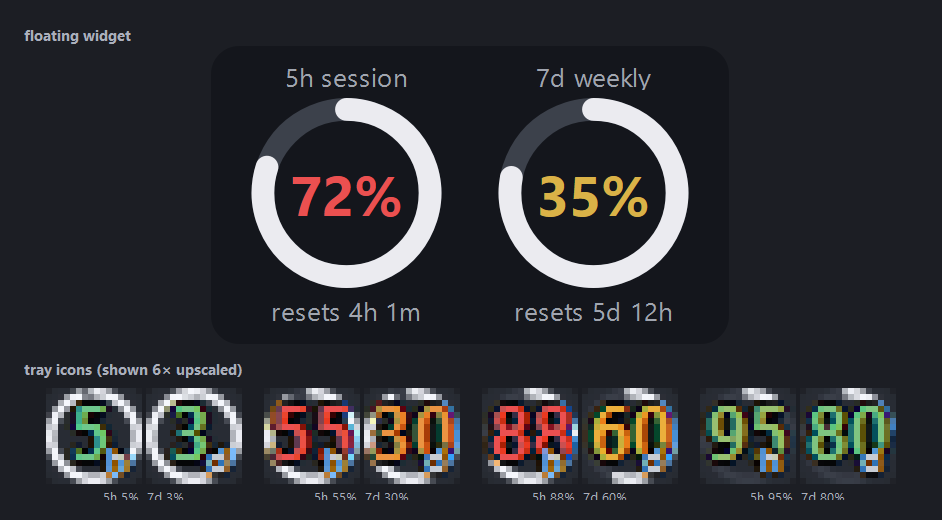
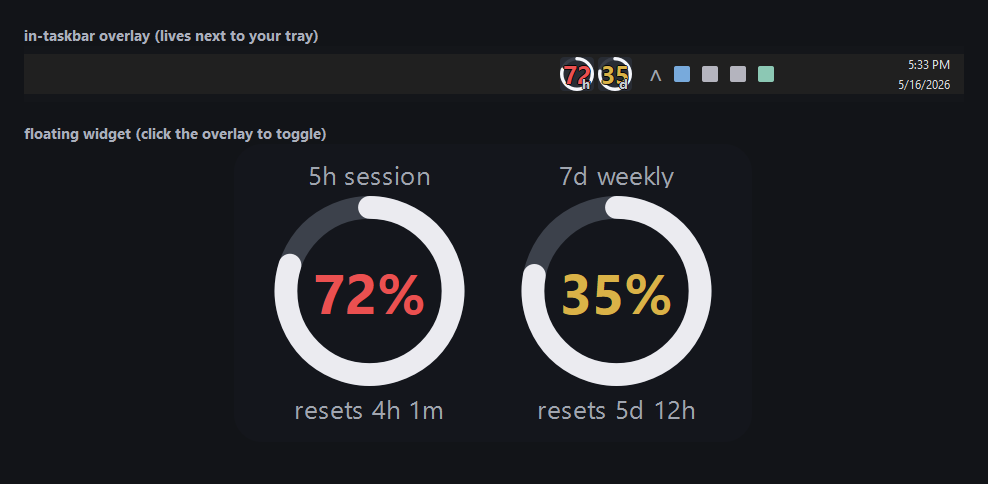
Refresh README + visuals for taskbar overlay design
- New hero: mock Windows taskbar with our overlay icons in context
  (next to chevron + fake tray + clock) above the floating widget.
  Conveys both surfaces at a glance instead of the old 'two separate
  screenshots' layout.
- New taskbar-low/mid/high.png: the in-context view at three urgency
  states (chill / burning / at-the-limit). Replaces the old
  'widget-low/mid/high' as the primary 'what you'll see' image.
- 'How it works' rewritten to describe the actual mechanism
  (SetParent + WS_CHILD into Shell_TrayWnd) instead of the older
  'always-on-top floating window' explanation that didn't actually
  work in practice. Includes a short 'why prior approaches failed'
  note for anyone trying to copy the technique.
- Controls table refers to 'Taskbar overlay' instead of 'Tray icon'.
- Widget right-click menu now lists 'Hide widget' (added earlier as
  an escape hatch).

Changed region(s): [[0.0308, 0.124, 0.9544, 0.9607], [0.0, 0.062, 0.3386, 0.093], [0.8928, 0.124, 0.9851, 0.186]]

diff --git a/docs/render.py b/docs/render.py
@@ -140,46 +140,105 @@ def render_tray_strip(pairs: list[tuple[float, float, float, float]],
 
 
 # ---------------------------------------------------------------------------
-# Compose the hero image (widget + tray strip stacked)
+# Mock Windows taskbar — shows the overlay icons in their actual context
+# ---------------------------------------------------------------------------
+
+TASKBAR_BG = QColor(32, 32, 32)
+TASKBAR_TEXT = QColor(220, 220, 225)
+TASKBAR_DIM = QColor(160, 165, 175)
+
+
+def render_taskbar_mockup(pct5: float, tr5: float,
+                          pct7: float, tr7: float,
+                          width: int = 880, height: int = 56) -> QPixmap:
+    """A representative slice of the Windows taskbar with our overlay icons
+    embedded on the left, then fake chevron, fake tray icons, and clock.
+    Icons are drawn at actual taskbar height for visual fidelity."""
+    pix = QPixmap(width, height)
+    pix.fill(QColor(20, 22, 26))
+    p = QPainter(pix)
+    p.setRenderHint(QPainter.Antialiasing, True)
+    p.setRenderHint(QPainter.TextAntialiasing, True)
+    # Taskbar strip across the full width
+    bar_y = 8
+    bar_h = height - 16
+    p.setPen(Qt.NoPen)
+    p.setBrush(TASKBAR_BG)
+    p.drawRect(0, bar_y, width, bar_h)
+
+    icon = bar_h - 6
+    gap = 4
+    # Our overlay icons — positioned just left of where the "tray" starts
+    tray_x = width - 320
+    overlay_w = icon * 2 + gap
+    overlay_x = tray_x - overlay_w - 12
+    overlay_y = bar_y + 3
+    i5 = make_tray_pixmap(pct5, tr5, icon, marker="h")
+    i7 = make_tray_pixmap(pct7, tr7, icon, marker="d")
+    p.drawPixmap(overlay_x, overlay_y, i5)
+    p.drawPixmap(overlay_x + icon + gap, overlay_y, i7)
+
+    # Fake chevron
+    p.setFont(QFont("Segoe UI", int(icon * 0.5)))
+    p.setPen(TASKBAR_DIM)
+    p.drawText(QRectF(tray_x, bar_y, 24, bar_h), Qt.AlignCenter, "˄")
+
+    # Fake tray icons (just simple shapes so the layout reads)
+    tx = tray_x + 30
+    for col in [QColor(120, 170, 220), QColor(180, 180, 190),
+                QColor(180, 180, 190), QColor(140, 200, 180)]:
+        p.setBrush(col); p.setPen(Qt.NoPen)
+        p.drawRoundedRect(tx, bar_y + bar_h / 2 - 8, 16, 16, 2, 2)
+        tx += 28
+
+    # Fake clock
+    p.setFont(QFont("Segoe UI", 9))
+    p.setPen(TASKBAR_TEXT)
+    p.drawText(QRectF(width - 110, bar_y, 96, bar_h / 2),
+               Qt.AlignVCenter | Qt.AlignRight, "5:33 PM")
+    p.drawText(QRectF(width - 110, bar_y + bar_h / 2, 96, bar_h / 2),
+               Qt.AlignVCenter | Qt.AlignRight, "5/16/2026")
+    p.end()
+    return pix
+
+
+# ---------------------------------------------------------------------------
+# Compose the hero image: taskbar mockup on top + floating widget below
 # ---------------------------------------------------------------------------
 
 def render_hero() -> QPixmap:
-    # 72% used with 80% of window still left → urgency 52 → amber
+    # Two paired scenarios so the hero conveys both surfaces at once
+    taskbar = render_taskbar_mockup(72.0, 80.0, 35.0, 78.0,
+                                    width=940, height=56)
     widget = render_widget(72.0, 35.0, tr5=80, tr7=78,
                            reset5="4h 1m", reset7="5d 12h", scale=2)
-    tray = render_tray_strip(
-        [(5.0,  95.0, 3.0,  98.0),
-         (55.0, 90.0, 30.0, 92.0),
-         (88.0, 65.0, 60.0, 55.0),
-         (95.0, 10.0, 80.0, 22.0)],
-        scale=6, gap=4, group_gap=22,
-    )
 
     pad = 24
-    W = max(widget.width(), tray.width()) + pad * 2
-    H = widget.height() + tray.height() + pad * 3 + 28
+    W = max(taskbar.width(), widget.width()) + pad * 2
+    H = taskbar.height() + widget.height() + pad * 3 + 56
     pix = QPixmap(W, H)
-    pix.fill(QColor(28, 30, 36))
+    pix.fill(QColor(18, 20, 24))
     p = QPainter(pix)
     p.setRenderHint(QPainter.Antialiasing, True)
     p.setRenderHint(QPainter.TextAntialiasing, True)
 
-    title = QFont()
-    title.setBold(True)
-    title.setPointSizeF(11)
-    p.setFont(title)
-    p.setPen(QColor(170, 175, 188))
-    p.drawText(QRectF(pad, pad, W - 2 * pad, 22),
-               Qt.AlignLeft | Qt.AlignVCenter, "floating widget")
+    title = QFont(); title.setBold(True); title.setPointSizeF(11)
+    p.setFont(title); p.setPen(QColor(170, 175, 188))
 
-    p.drawPixmap((W - widget.width()) // 2, pad + 22, widget)
+    # Section A: taskbar overlay
+    y = pad
+    p.drawText(QRectF(pad, y, W - 2*pad, 22), Qt.AlignLeft | Qt.AlignVCenter,
+               "in-taskbar overlay (lives next to your tray)")
+    y += 22
+    p.drawPixmap((W - taskbar.width()) // 2, y, taskbar)
+    y += taskbar.height() + 20
 
-    p.setFont(title)
-    p.drawText(QRectF(pad, pad + 22 + widget.height() + 12, W - 2 * pad, 22),
-               Qt.AlignLeft | Qt.AlignVCenter, "tray icons (shown 6× upscaled)")
+    # Section B: floating widget that pops up on click
+    p.drawText(QRectF(pad, y, W - 2*pad, 22), Qt.AlignLeft | Qt.AlignVCenter,
+               "floating widget (click the overlay to toggle)")
+    y += 22
+    p.drawPixmap((W - widget.width()) // 2, y, widget)
 
-    p.drawPixmap((W - tray.width()) // 2,
-                 pad + 22 + widget.height() + 12 + 22, tray)
     p.end()
     return pix
 
@@ -257,15 +316,19 @@ def main() -> None:
     for name, p5, p7, tr5, tr7, r5, r7 in states:
         render_widget(p5, p7, tr5, tr7, r5, r7, scale=2).save(str(out / name))
 
-    # Individual: tray strip across scenarios
-    # Scenarios that span the urgency color range so the README is illustrative
+    # Overlay-icon strip across the urgency color range
     render_tray_strip(
-        [(5.0,  95.0, 3.0,  98.0),   # all chill — green
-         (55.0, 90.0, 30.0, 92.0),   # mid % + fresh window = burning fast — amber/red
-         (88.0, 65.0, 60.0, 55.0),   # high % + half window left = red zone
-         (95.0, 10.0, 80.0, 22.0)],  # very high % but reset imminent = green
+        [(5.0,  95.0, 3.0,  98.0),
+         (55.0, 90.0, 30.0, 92.0),
+         (88.0, 65.0, 60.0, 55.0),
+         (95.0, 10.0, 80.0, 22.0)],
         scale=8, gap=6, group_gap=28,
     ).save(str(out / "tray.png"))
+
+    # Mock taskbar at three urgency states — actual context users see
+    render_taskbar_mockup( 8.0, 95.0,  4.0, 98.0).save(str(out / "taskbar-low.png"))
+    render_taskbar_mockup(72.0, 80.0, 35.0, 78.0).save(str(out / "taskbar-mid.png"))
+    render_taskbar_mockup(95.0, 65.0, 60.0, 55.0).save(str(out / "taskbar-high.png"))
 
     render_urgency_explainer().save(str(out / "urgency.png"))
 

diff --git a/README.md b/README.md
@@ -78,21 +78,28 @@ Windows places new tray icons under the overflow chevron `^` by default. Pin the
 
 | Surface | Action | What it does |
 |---|---|---|
-| Tray icon | Left-click | Show / hide the floating widget |
-| Tray icon | Right-click | Show / hide widget • Refresh now • Quit |
-| Tray icon | Hover | Tooltip with exact % and reset countdown |
+| Taskbar overlay | Left-click | Show / hide the floating widget |
+| Taskbar overlay | Right-click | Show / hide widget • Refresh now • Quit |
+| Taskbar overlay | Hover | Tooltip with exact % and reset countdown |
 | Widget | Left-click + drag | Move (position persisted) |
 | Widget | Scroll wheel | Resize (0.6× – 2.0×) |
-| Widget | Right-click | Refresh now • Opacity 50 / 75 / 92 / 100 % • Quit |
+| Widget | Right-click | Hide widget • Refresh now • Opacity 50 / 75 / 92 / 100 % • Quit |
 
-## States at a glance
+## What it looks like
 
-| | Chill | Burning fast | Made it |
-|---|---|---|---|
-| Scenario | low % regardless of time | mid % with lots of window left | high % but reset is right there |
-| Widget | ![chill](docs/widget-low.png) | ![burning](docs/widget-mid.png) | ![made-it](docs/widget-high.png) |
+**In your taskbar** (mock — actual icons sit on top of your real taskbar to the left of the chevron):
 
-Tray icons across four scenarios spanning the urgency range (shown 8× upscaled):
+| Chill | Burning fast | At-the-limit |
+|---|---|---|
+| ![low](docs/taskbar-low.png) | ![mid](docs/taskbar-mid.png) | ![high](docs/taskbar-high.png) |
+
+**Floating widget** (pops up when you click the overlay):
+
+| Chill | Burning fast | Made it |
+|---|---|---|
+| ![chill](docs/widget-low.png) | ![burning](docs/widget-mid.png) | ![made-it](docs/widget-high.png) |
+
+Overlay icons across four urgency scenarios (shown 8× upscaled):
 
 ![tray](docs/tray.png)
 
@@ -127,11 +134,18 @@ This minimizes the OAuth refresh race — whichever side calls refresh first inv
 
 ## Why a taskbar overlay instead of tray icons
 
-`QSystemTrayIcon` is the standard Qt API for "thing in the tray" but it's hard-capped at 16×16 pixels per slot (`SM_CXSMICON`). That's barely enough room for two stacked characters. The clock, ink workspace, and "real" CodeZeno-style widgets aren't tray icons — they're regular Win32 windows positioned over the taskbar.
+`QSystemTrayIcon` is the standard Qt API for "thing in the tray" but it's hard-capped at 16×16 pixels per slot (`SM_CXSMICON`). That's barely enough room for two stacked characters. The clock, ink workspace, and "real" CodeZeno-style widgets aren't tray icons — they're regular Win32 windows attached *to* the taskbar.
 
-We do the same: `FindWindow("Shell_TrayWnd")` to get the taskbar HWND, `FindWindowEx(..., "TrayNotifyWnd")` for the tray notification area, then create a frameless transparent always-on-top window and position it just left of the tray, sized to the full taskbar height (~32 px). We re-poll the taskbar geometry every ~1.5 s so the overlay follows the taskbar across autohide, DPI changes, and monitor disconnects.
+We do the same:
 
-Result: each icon is ~30 px tall instead of 16, so the percentage number is readable without squinting.
+1. `FindWindow("Shell_TrayWnd")` to get the taskbar HWND.
+2. `FindWindowEx(..., "TrayNotifyWnd")` to find the tray notification area, so we know where to position ourselves.
+3. Create a frameless Qt window, then modify its style to `WS_CHILD` and call `SetParent(our_hwnd, taskbar_hwnd)`. This makes our window a **child of the taskbar's window hierarchy** — child windows are rendered in the parent's z-context, *after* the parent's own content. So the taskbar literally cannot paint over us. No amount of clicking on the speaker icon, the chevron, or empty taskbar space can bury us.
+4. Re-poll the taskbar geometry every ~1 s to follow autohide / DPI changes / monitor disconnects. Detect `Shell_TrayWnd` HWND changing (explorer.exe restart) and re-embed if needed.
+
+Result: each icon is ~32 px tall instead of 16, the percentage number is readable, and the overlay can't be obscured by taskbar interaction.
+
+**Why we initially tried other approaches and failed:** standard `QSystemTrayIcon` capped us at 16×16. Switching to a floating top-most window worked visually but Shell_TrayWnd has special z-order treatment that beat plain `HWND_TOPMOST` — clicking the taskbar would let the shell repaint over us. Even 20 Hz polling of `SetWindowPos(HWND_TOPMOST)` couldn't keep up. The `SetParent`+`WS_CHILD` approach is the actual solution and is what CodeZeno's Rust implementation uses.
 
 ## Configuration
 
@@ -152,7 +166,7 @@ State (window position, size, opacity, visibility) lives in `~/.claude/.usagedas
 python docs/render.py
 ```
 
-Produces `hero.png`, `tray.png`, `widget-low/mid/high.png`, and `urgency.png` from synthetic data — no live desktop screenshots are ever captured, so the repo never leaks personal taskbar / wallpaper content.
+Produces `hero.png`, `taskbar-low/mid/high.png`, `tray.png`, `widget-low/mid/high.png`, `urgency.png`, and `urgency_curve.png` — all from synthetic data, so the repo never leaks personal taskbar / wallpaper content.
 
 ## Uninstall
 